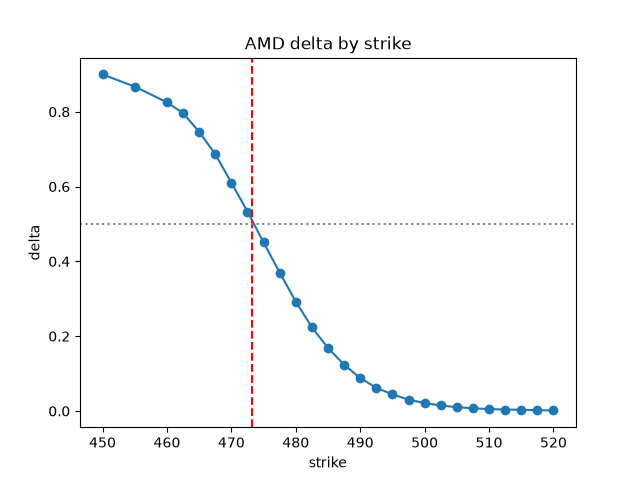
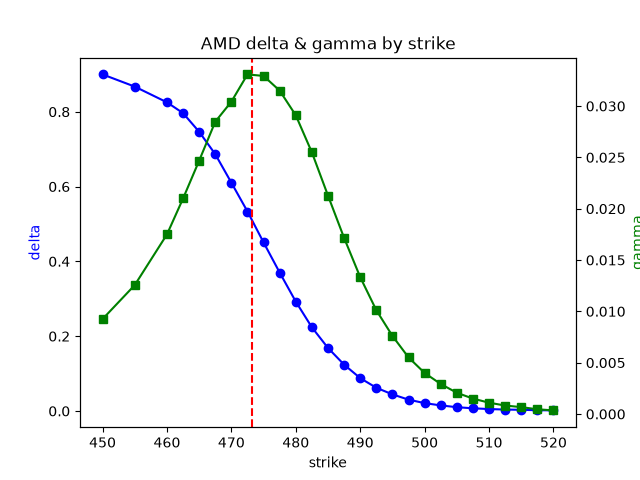
insider cluster v6, annual_vol update

diff --git a/insidercluster_v6.py b/insidercluster_v6.py
@@ -1,0 +1,279 @@
+#!/usr/bin/env python3
+"""
+INSIDER CLUSTER SCANNER · v6  (the scoring build)
+
+
+"""
+
+import requests
+import re
+import sys
+import time
+import math
+from datetime import datetime, timedelta
+from collections import defaultdict
+
+HEADERS = {"User-Agent": "CaramelPrince Research tyrin@example.com"}
+WINDOW_DAYS = 14
+VERBOSE = "--verbose" in sys.argv or "-v" in sys.argv
+TOP_N = 10  # how many ranked signals to show
+
+# scoring weights — tune these as you learn what predicts returns
+W_INSIDERS = 10.0     # points per distinct insider
+W_DOLLARS = 6.0       # points per log10(dollars)
+
+# thresholds only for TAGGING (not filtering)
+CLUSTER_MIN_INSIDERS = 2
+CONVICTION_MIN_USD = 250_000
+
+CODE_MEANING = {
+    "P": "PURCHASE ← SIGNAL", "S": "sale", "A": "grant", "M": "exercise",
+    "F": "tax", "G": "gift", "J": "other", "I": "other",
+}
+
+MIN_INSIDER_BUY = 100_000        # a single buy must clear this to "count"
+MAX_PLAUSIBLE_BUY = 500_000_000  # any single buy above this = corrupt data, reject
+
+
+def vprint(*a):
+    if VERBOSE:
+        print(*a)
+
+
+def fetch_recent_form4(days_back=7, max_filings=100):
+    since = (datetime.now() - timedelta(days=days_back)).strftime("%Y-%m-%d")
+    url = "https://efts.sec.gov/LATEST/search-index"
+    params = {"forms": "4", "startdt": since,
+              "enddt": datetime.now().strftime("%Y-%m-%d"), "q": "purchase"}
+    out = []
+    try:
+        r = requests.get(url, params=params, headers=HEADERS, timeout=20)
+        r.raise_for_status()
+        for h in r.json().get("hits", {}).get("hits", [])[:max_filings]:
+            src = h.get("_source", {})
+            out.append({"accession": h.get("_id", "").split(":")[0],
+                        "ciks": src.get("ciks", [])})
+    except Exception as e:
+        print(f"[fetch error] {e}")
+    return out
+
+
+def parse_form4(accession, cik):
+    acc = accession.replace("-", "")
+    url = f"https://www.sec.gov/Archives/edgar/data/{int(cik)}/{acc}/{accession}.txt"
+    res = {"issuer": "?", "ticker": "?", "owner": "?", "owner_cik": cik,
+           "accession": accession, "buys": []}
+    try:
+        r = requests.get(url, headers=HEADERS, timeout=20)
+        if r.status_code != 200:
+            return res
+        t = r.text
+        for field, key, pat in [
+            ("issuer", "issuer", r"<issuerName>(.*?)</issuerName>"),
+            ("ticker", "ticker", r"<issuerTradingSymbol>(.*?)</issuerTradingSymbol>"),
+            ("owner", "owner", r"<rptOwnerName>(.*?)</rptOwnerName>"),
+            ("owner_cik", "owner_cik", r"<rptOwnerCik>(.*?)</rptOwnerCik>"),
+        ]:
+            m = re.search(pat, t, re.DOTALL)
+            if m:
+                res[key] = m.group(1).strip()
+        for block in re.findall(
+                r"<nonDerivativeTransaction>(.*?)</nonDerivativeTransaction>",
+                t, re.DOTALL):
+            cm = re.search(r"<transactionCode>(\w)</transactionCode>", block)
+            if not cm or cm.group(1) != "P":
+                continue
+            sh = re.search(r"<transactionShares>.*?<value>([\d.]+)</value>", block, re.DOTALL)
+            pr = re.search(r"<transactionPricePerShare>.*?<value>([\d.]+)</value>", block, re.DOTALL)
+            dt = re.search(r"<transactionDate>.*?<value>([\d-]+)</value>", block, re.DOTALL)
+            shares = float(sh.group(1)) if sh else 0
+            price = float(pr.group(1)) if pr else 0
+            res["buys"].append({"shares": shares, "price": price,
+                                "value": shares * price,
+                                "date": dt.group(1) if dt else ""})
+    except Exception as e:
+        vprint(f"   [parse error] {e}")
+    return res
+
+
+import csv
+import os
+
+SIGNALS_FILE = "signals.csv"
+SIGNAL_FIELDS = ["date_found", "filing_accession", "ticker", "company",
+                 "signal_type", "n_insiders", "total_usd", "score"]
+
+
+def load_existing_keys(path):
+    """
+    A signal's true identity is the SEC accession number — one Form 4
+    filing = one accession number, guaranteed unique by SEC, forever.
+    Using ticker+date would falsely dedupe two different insiders
+    buying the same stock on the same day. Using accession number
+    can't collide by definition, so it's the only safe key.
+    """
+    if not os.path.exists(path):
+        return set()
+    seen = set()
+    with open(path, "r", newline="") as f:
+        for row in csv.DictReader(f):
+            seen.add(row["filing_accession"])
+    return seen
+
+
+def append_signals(rows, path=SIGNALS_FILE):
+    """
+    rows: list of dicts matching SIGNAL_FIELDS (must include
+    filing_accession per row). Appends only rows whose accession
+    number isn't already on disk. Returns count of new rows written.
+    """
+    existing = load_existing_keys(path)
+    new_rows = [r for r in rows if r["filing_accession"] not in existing]
+
+    file_exists = os.path.exists(path)
+    with open(path, "a", newline="") as f:
+        writer = csv.DictWriter(f, fieldnames=SIGNAL_FIELDS)
+        if not file_exists:
+            writer.writeheader()
+        for r in new_rows:
+            writer.writerow(r)
+
+    return len(new_rows)
+
+
+def score(n_insiders, total_usd):
+    """Two-axis score. log10 on dollars so $10M isn't 40x a $250k signal."""
+    dollar_pts = math.log10(max(total_usd, 1)) * W_DOLLARS
+    insider_pts = n_insiders * W_INSIDERS
+    return insider_pts + dollar_pts
+
+
+def tag(n_insiders, total_usd):
+    cluster = n_insiders >= CLUSTER_MIN_INSIDERS
+    conviction = total_usd >= CONVICTION_MIN_USD
+    if cluster and conviction:
+        return "🥇 GOLDEN"      # NKE-style: coordinated AND big money
+    if cluster:
+        return "🤝 CLUSTER"     # many insiders, smaller money
+    if conviction:
+        return "💰 CONVICTION"  # one/few insiders, big money
+    return "·  weak"
+
+def is_plausible_buy(value):
+    return value < MAX_PLAUSIBLE_BUY
+
+def counts_as_insider_buy(value):
+    return value >= MIN_INSIDER_BUY
+
+def has_conviction_buyer(buys):
+    for b in buys:
+        if counts_as_insider_buy(b["value"]):
+            return True
+    return False
+
+def analyze(filings):
+    by_company = defaultdict(lambda: {"ticker": "?", "owners": defaultdict(list)})
+    for f in filings:
+        if not f["ciks"]:
+            continue
+        p = parse_form4(f["accession"], f["ciks"][0])
+        time.sleep(0.12)
+        if not p["buys"]:
+            continue
+        c = by_company[p["issuer"]]
+        c["ticker"] = p["ticker"]
+        for b in p["buys"]:
+            if not is_plausible_buy(b["value"]):
+                continue   # corrupt data (JSDA $91B) never enters the system
+            b["owner"] = p["owner"]
+            b["accession"] = p["accession"]
+            c["owners"][p["owner_cik"]].append(b)
+
+    rows = []
+    for company, data in by_company.items():
+        owners = data["owners"]
+
+        # flatten all this company's buys into one list
+        all_buys = [b for lst in owners.values() for b in lst]
+
+        # THE GATE — reason it out: no conviction buyer? skip entirely.
+        if not has_conviction_buyer(all_buys):
+            continue
+
+        # only survivors reach here — now the expensive scoring
+        total = sum(b["value"] for lst in owners.values() for b in lst)
+        n = len(owners)
+        rows.append({
+            "company": company, "ticker": data["ticker"],
+            "insiders": n, "total": total,
+            "score": score(n, total), "tag": tag(n, total),
+            "owners": owners,
+        })
+    rows.sort(key=lambda r: r["score"], reverse=True)
+    return rows
+
+
+def main():
+    print("=" * 64)
+    print("INSIDER SIGNAL SCANNER v4 · two-axis scoring")
+    print(f"window={WINDOW_DAYS}d · ranking top {TOP_N} by score")
+    print("=" * 64)
+
+    filings = fetch_recent_form4()
+    print(f"Pulled {len(filings)} filings.\n")
+    if not filings:
+        return
+
+    rows = analyze(filings)
+    if not rows:
+        print("No open-market buys found in window.")
+        return
+
+    print(f"{'RANK':<5}{'SCORE':<7}{'TAG':<14}{'TICKER':<8}"
+          f"{'INS':<5}{'TOTAL $':<14}COMPANY")
+    print("-" * 64)
+    for i, r in enumerate(rows[:TOP_N], 1):
+        print(f"{i:<5}{r['score']:<7.1f}{r['tag']:<14}{r['ticker']:<8}"
+              f"{r['insiders']:<5}${r['total']:<13,.0f}{r['company'][:26]}")
+
+    # detail on anything that isn't "weak"
+    strong = [r for r in rows if r["tag"] != "·  weak"]
+    if strong:
+        print(f"\n{'='*64}\nSIGNAL DETAIL\n{'='*64}")
+        for r in strong:
+            print(f"\n{r['tag']}  {r['company']} ({r['ticker']}) · "
+                  f"score {r['score']:.1f}")
+            print(f"   {r['insiders']} insider(s) · ${r['total']:,.0f}")
+            for owner_cik, buys in r["owners"].items():
+                nm = buys[0]["owner"]
+                tot = sum(b["value"] for b in buys)
+                print(f"     • {nm}: ${tot:,.0f}")
+
+    # ── AUTO-LOG: persist every non-weak signal to signals.csv ──
+    today = datetime.now().strftime("%Y-%m-%d")
+    log_rows = []
+    for r in rows:
+        if r["tag"] == "·  weak":
+            continue
+        # one row per underlying filing (accession), not per company,
+        # so the identity key (accession) stays truly unique
+        for owner_cik, buys in r["owners"].items():
+            for b in buys:
+                log_rows.append({
+                    "date_found": today,
+                    "filing_accession": b["accession"],
+                    "ticker": r["ticker"],
+                    "company": r["company"],
+                    "signal_type": r["tag"].strip(),
+                    "n_insiders": r["insiders"],
+                    "total_usd": r["total"],
+                    "score": r["score"],
+                })
+
+    n_new = append_signals(log_rows)
+    print(f"\n[log] {n_new} new signal(s) appended to {SIGNALS_FILE} "
+          f"({len(log_rows) - n_new} already on file, skipped).")
+
+
+if __name__ == "__main__":
+    main()

diff --git a/smile.py b/smile.py
@@ -52,7 +52,7 @@ def add_gamma(df, spot, days):
 	for row in df.itertuples():
 		g = call_gamma(spot, row.strike, row.impliedVolatility, days)
 		gammas.append(g)
-	df["gamas"] = gammas
+	df["gamma"] = gammas
 	return df
 
 def plot_greeks(df, spot):
@@ -85,11 +85,12 @@ def main():
 	df, expiry, spot = get_smile(ticker)
 	days = (pd.Timestamp(expiry) - pd.Timestamp.now()).days
 	delta = add_delta(df, spot, days)
+	gamma = add_gamma(df, spot, days)
 	print(f"expiry {expiry}")
 	print(df.to_string())
 	if want_chart:
 		plot_smile(df, expiry, spot)
-		plot_delta(df, spot)
+		plot_greeks(df, spot)
 
 if __name__ == '__main__':
 	main()

diff --git a/annual_vol.py b/annual_vol.py
@@ -1,0 +1,9 @@
+import numpy as np
+import yfinance as yf
+
+def annual_vol(ticker, years = 1):
+	tk = yf.Ticker(ticker)
+	last_close = tk.history(period="5d")["Close"].iloc[-1]
+	ret = df["Close"].pct_change() * 100
+	return ret.dropna()
+
